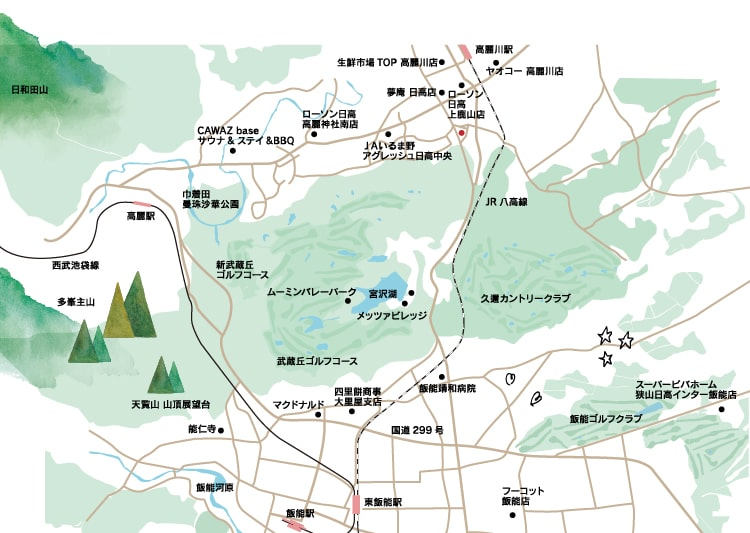
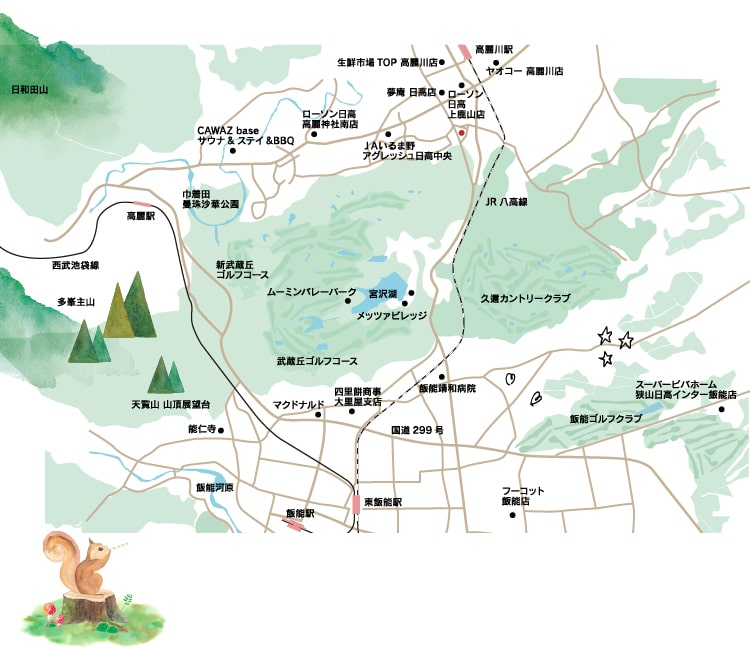
周辺MAP > 各アイテム_アニメーション追加

diff --git a/css/style.css b/css/style.css
@@ -4312,7 +4312,7 @@ button.swiper-pagination-bullet {
   }
 }
 .c-contents.-imgBg .c-contentsBox.-map-sentaku {
-  top: 100%;
+  top: 80%;
   left: 28%;
   width: 50%;
 }
@@ -4370,6 +4370,80 @@ button.swiper-pagination-bullet {
   left: 85%;
   width: 13%;
   height: auto;
+}
+.c-contents.-imgBg .c-contentsBox.-map-telop {
+  top: 24%;
+  left: 61.5%;
+  width: 35%;
+}
+@media (width >= 768px) {
+  .c-contents.-imgBg .c-contentsBox.-map-telop {
+    top: 21%;
+    left: 55.1%;
+    width: 18%;
+  }
+}
+.c-contents.-imgBg .c-contentsBox.-map-point01 {
+  top: 40%;
+  left: 38.5%;
+  width: 11%;
+}
+@media (width >= 768px) {
+  .c-contents.-imgBg .c-contentsBox.-map-point01 {
+    top: 38%;
+    left: 42.1%;
+    width: 5%;
+  }
+}
+.c-contents.-imgBg .c-contentsBox.-map-point02 {
+  top: 17%;
+  left: 10.5%;
+  width: 15%;
+}
+@media (width >= 768px) {
+  .c-contents.-imgBg .c-contentsBox.-map-point02 {
+    top: 17%;
+    left: 26.5%;
+    width: 7%;
+  }
+}
+.c-contents.-imgBg .c-contentsBox.-map-point03 {
+  top: 74%;
+  left: 11.5%;
+  width: 12%;
+  z-index: 2;
+}
+@media (width >= 768px) {
+  .c-contents.-imgBg .c-contentsBox.-map-point03 {
+    top: 64%;
+    left: 13.5%;
+    width: 8%;
+  }
+}
+.c-contents.-imgBg .c-contentsBox.-map-pukupuku {
+  top: 80%;
+  left: 16.5%;
+  width: 5%;
+  z-index: 1;
+}
+@media (width >= 768px) {
+  .c-contents.-imgBg .c-contentsBox.-map-pukupuku {
+    top: 72%;
+    left: 16.5%;
+    width: 4%;
+  }
+}
+.c-contents.-imgBg .c-contentsBox.-map-momo {
+  top: 8%;
+  left: 8%;
+  width: 5%;
+}
+@media (width >= 768px) {
+  .c-contents.-imgBg .c-contentsBox.-map-momo {
+    top: 9%;
+    left: 12%;
+    width: 3%;
+  }
 }
 
 .c-contents_title {

diff --git a/index.html b/index.html
@@ -130,7 +130,7 @@
 
         </div>
         <!-- MAP -->
-        <div class="c-contents -imgBg mgb10 mgb20s">
+        <section id="map" class="c-contents -imgBg mgb10 mgb20s">
             <div class="imgBox">
                 <img class="sp"    src="images/item/map-Bg_s.jpg" alt="日高市の周辺MAP">
                 <img class="tb-pc" src="images/item/map-Bg.jpg"   alt="日高市の周辺MAP">
@@ -148,8 +148,13 @@
                     <div class="c-contentsBox -sentakuItem08 a-rotateRight -loop -tm4 -sp8"><img src="images/item/map-item01-08.png" alt=""></div>
                 </div>
             </div>
-            <div class="c-contnetsBox -map-telop"><img src="" alt=""></div>
-        </div>
+            <div class="c-contentsBox -map-telop"><img src="images/item/map-item02.png" alt="GRANCIA武蔵の森"></div>
+            <div class="c-contentsBox -map-point01"><img src="images/item/map-item03.png" alt="ムーミンバレーパーク"></div>
+            <div class="c-contentsBox -map-point02"><img src="images/item/map-item04.png" alt="巾着田"></div>
+            <div class="c-contentsBox -map-point03"><img src="images/item/map-item05.png" alt="リス"></div>
+            <div class="c-contentsBox -map-pukupuku a-moveLoop -loop -sp3"><img src="images/item/map-item07.png" alt="シャボン玉"></div>
+            <div class="c-contentsBox -map-momo a-rotateRight -loop -sp2"><img src="images/item/map-item06.png" alt="モモンガ"></div>
+        </section>
     </main>
     <!-- //コンテンツ -->
 

diff --git a/scss/components/_contents.scss b/scss/components/_contents.scss
@@ -236,7 +236,7 @@
 			}
 			// MAPエリア
 			&.-map-sentaku{
-				top: 100%;
+				top: 80%;
 				left: 28%;
 				width: 50%;
 				@include min(768){
@@ -293,6 +293,73 @@
 					width: 13%;
 					height: auto;
 				}
+			// テロップ
+			&.-map-telop{
+				top: 24%;
+				left: 61.5%;
+				width: 35%;
+				@include min(768){
+					top: 21%;
+					left: 55.1%;
+					width: 18%;
+				}
+			}
+			// ムーミンバレーパーク
+			&.-map-point01{
+				top: 40%;
+				left: 38.5%;
+				width: 11%;
+				@include min(768){
+					top: 38%;
+					left: 42.1%;
+					width: 5%;
+				}
+			}
+			// 巾着田
+			&.-map-point02{
+				top: 17%;
+				left: 10.5%;
+				width: 15%;
+				@include min(768){
+					top: 17%;
+					left: 26.5%;
+					width: 7%;
+				}
+			}
+			// リス
+			&.-map-point03{
+				top: 74%;
+				left: 11.5%;
+				width: 12%;
+				z-index: 2;
+				@include min(768){
+					top: 64%;
+					left: 13.5%;
+					width: 8%;
+				}
+			}
+			&.-map-pukupuku{
+				top: 80%;
+				left: 16.5%;
+				width: 5%;
+				z-index: 1;
+				@include min(768){
+					top: 72%;
+					left: 16.5%;
+					width: 4%;
+				}
+			}
+			// モモンガ
+			&.-map-momo{
+				top: 8%;
+				left: 8%;
+				width: 5%;
+				@include min(768){
+					top: 9%;
+					left: 12%;
+					width: 3%;
+				}
+			}
 		}
 	}
 }
